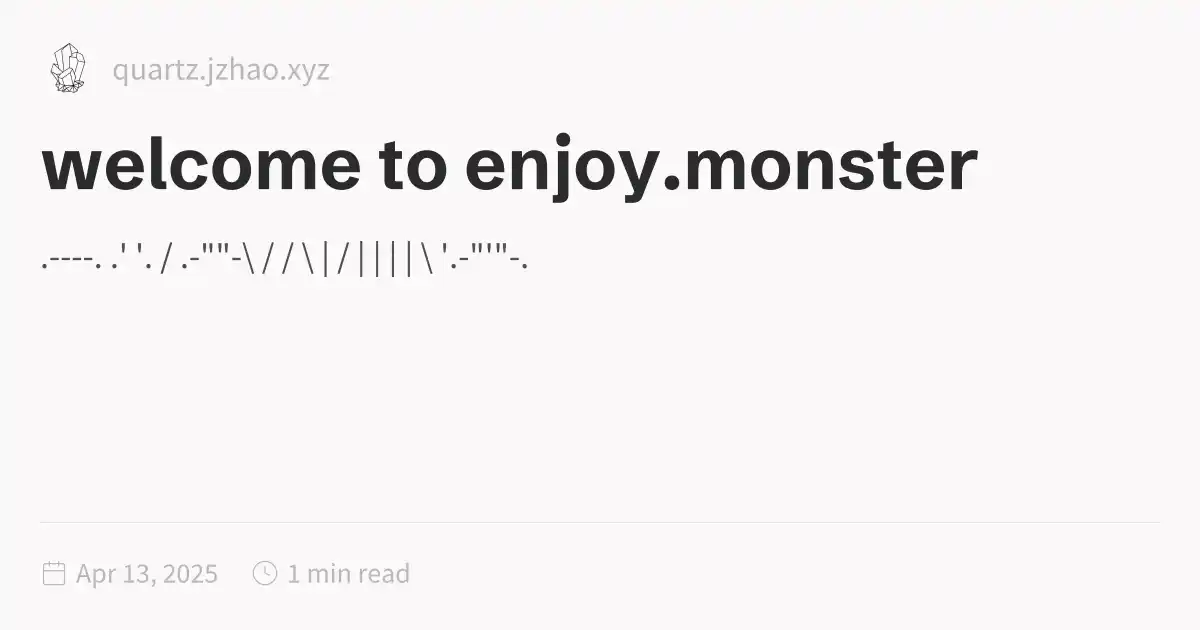
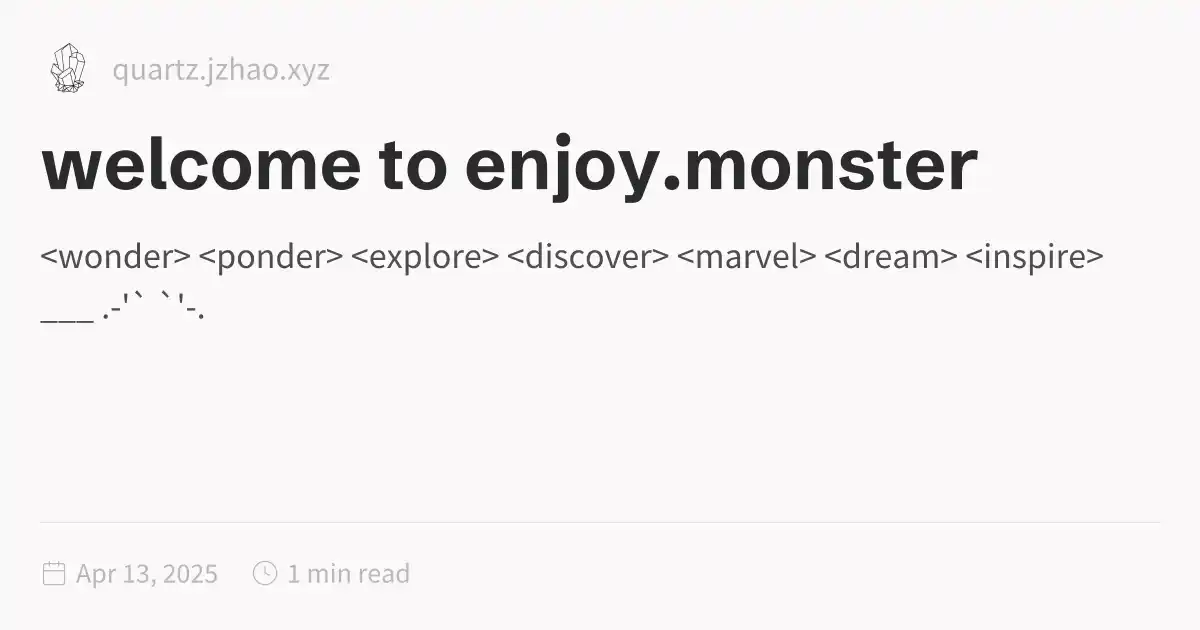
Deploying to gh-pages from @ doomdagadiggiedahdah/blog@cd88c906828391016854ffb2836e472048bb1b64 🚀

Changed region(s): [[0.0308, 0.3921, 0.925, 0.4524]]

diff --git a/blog/master-as-the-needle.html b/blog/master-as-the-needle.html
@@ -1,5 +1,5 @@
 <!DOCTYPE html>
-<html lang="en"><head><title>master-as-the-needle</title><meta charset="utf-8"/><link rel="preconnect" href="https://fonts.googleapis.com"/><link rel="preconnect" href="https://fonts.gstatic.com"/><link rel="stylesheet" href="https://fonts.googleapis.com/css2?family=Schibsted Grotesk:wght@400;700&amp;family=Source Sans Pro:ital,wght@0,400;0,600;1,400;1,600&amp;family=IBM Plex Mono:wght@400;600&amp;display=swap"/><link rel="preconnect" href="https://cdnjs.cloudflare.com" crossorigin="anonymous"/><meta name="viewport" content="width=device-width, initial-scale=1.0"/><meta name="og:site_name" content="Quartz 4"/><meta property="og:title" content="master-as-the-needle"/><meta property="og:type" content="website"/><meta name="twitter:card" content="summary_large_image"/><meta name="twitter:title" content="master-as-the-needle"/><meta name="twitter:description" content="Master as the needle “Tell me and I’ll forget, show me I’ll remember, involve me and I’ll understand.” I don’t feel accomplished when I vibe code, “he who does the work gets the learning” and if I outsource all / most of it then I’m not actually becoming a more capable person when I have Claude writ..."/><meta property="og:description" content="Master as the needle “Tell me and I’ll forget, show me I’ll remember, involve me and I’ll understand.” I don’t feel accomplished when I vibe code, “he who does the work gets the learning” and if I outsource all / most of it then I’m not actually becoming a more capable person when I have Claude writ..."/><meta property="og:image:alt" content="Master as the needle “Tell me and I’ll forget, show me I’ll remember, involve me and I’ll understand.” I don’t feel accomplished when I vibe code, “he who does the work gets the learning” and if I outsource all / most of it then I’m not actually becoming a more capable person when I have Claude writ..."/><meta property="twitter:domain" content="quartz.jzhao.xyz"/><meta property="og:url" content="https://quartz.jzhao.xyz/blog/master-as-the-needle"/><meta property="twitter:url" content="https://quartz.jzhao.xyz/blog/master-as-the-needle"/><link rel="icon" href="../static/icon.png"/><meta name="description" content="Master as the needle “Tell me and I’ll forget, show me I’ll remember, involve me and I’ll understand.” I don’t feel accomplished when I vibe code, “he who does the work gets the learning” and if I outsource all / most of it then I’m not actually becoming a more capable person when I have Claude writ..."/><meta name="generator" content="Quartz"/><link href="../index.css" rel="stylesheet" type="text/css" spa-preserve/><style>.expand-button {
+<html lang="en"><head><title>master as the needle</title><meta charset="utf-8"/><link rel="preconnect" href="https://fonts.googleapis.com"/><link rel="preconnect" href="https://fonts.gstatic.com"/><link rel="stylesheet" href="https://fonts.googleapis.com/css2?family=Schibsted Grotesk:wght@400;700&amp;family=Source Sans Pro:ital,wght@0,400;0,600;1,400;1,600&amp;family=IBM Plex Mono:wght@400;600&amp;display=swap"/><link rel="preconnect" href="https://cdnjs.cloudflare.com" crossorigin="anonymous"/><meta name="viewport" content="width=device-width, initial-scale=1.0"/><meta name="og:site_name" content="Quartz 4"/><meta property="og:title" content="master as the needle"/><meta property="og:type" content="website"/><meta name="twitter:card" content="summary_large_image"/><meta name="twitter:title" content="master as the needle"/><meta name="twitter:description" content="master as the needle “Tell me and I’ll forget, show me I’ll remember, involve me and I’ll understand.” I don’t feel accomplished when I vibe code, “he who does the work gets the learning” and if I outsource all / most of it then I’m not actually becoming a more capable person when I have Claude writ..."/><meta property="og:description" content="master as the needle “Tell me and I’ll forget, show me I’ll remember, involve me and I’ll understand.” I don’t feel accomplished when I vibe code, “he who does the work gets the learning” and if I outsource all / most of it then I’m not actually becoming a more capable person when I have Claude writ..."/><meta property="og:image:alt" content="master as the needle “Tell me and I’ll forget, show me I’ll remember, involve me and I’ll understand.” I don’t feel accomplished when I vibe code, “he who does the work gets the learning” and if I outsource all / most of it then I’m not actually becoming a more capable person when I have Claude writ..."/><meta property="twitter:domain" content="quartz.jzhao.xyz"/><meta property="og:url" content="https://quartz.jzhao.xyz/blog/master-as-the-needle"/><meta property="twitter:url" content="https://quartz.jzhao.xyz/blog/master-as-the-needle"/><link rel="icon" href="../static/icon.png"/><meta name="description" content="master as the needle “Tell me and I’ll forget, show me I’ll remember, involve me and I’ll understand.” I don’t feel accomplished when I vibe code, “he who does the work gets the learning” and if I outsource all / most of it then I’m not actually becoming a more capable person when I have Claude writ..."/><meta name="generator" content="Quartz"/><link href="../index.css" rel="stylesheet" type="text/css" spa-preserve/><style>.expand-button {
   position: absolute;
   display: flex;
   float: right;
@@ -116,7 +116,7 @@ pre:hover > .expand-button {
   padding: 0 12px;
   font-size: 14px;
 }
[2 lines of base64/hex data omitted]
 <ul>
 <li>
 <p>“Tell me and I’ll forget, show me I’ll remember, involve me and I’ll understand.”</p>
@@ -152,10 +152,10 @@ pre:hover > .expand-button {
 </li>
 </ul>
 <p>the solution relies on the strength of the student to support the residual structure</p>
-<h1 id="the-master-as-the-needle">The Master as the Needle<a role="anchor" aria-hidden="true" tabindex="-1" data-no-popover="true" href="#the-master-as-the-needle" class="internal"><svg width="18" height="18" viewBox="0 0 24 24" fill="none" stroke="currentColor" stroke-width="2" stroke-linecap="round" stroke-linejoin="round"><path d="M10 13a5 5 0 0 0 7.54.54l3-3a5 5 0 0 0-7.07-7.07l-1.72 1.71"></path><path d="M14 11a5 5 0 0 0-7.54-.54l-3 3a5 5 0 0 0 7.07 7.07l1.71-1.71"></path></svg></a></h1>
+<h1 id="the-master-as-the-needle">the master as the needle<a role="anchor" aria-hidden="true" tabindex="-1" data-no-popover="true" href="#the-master-as-the-needle" class="internal"><svg width="18" height="18" viewBox="0 0 24 24" fill="none" stroke="currentColor" stroke-width="2" stroke-linecap="round" stroke-linejoin="round"><path d="M10 13a5 5 0 0 0 7.54.54l3-3a5 5 0 0 0-7.07-7.07l-1.72 1.71"></path><path d="M14 11a5 5 0 0 0-7.54-.54l-3 3a5 5 0 0 0 7.07 7.07l1.71-1.71"></path></svg></a></h1>
 <p>“Tell me and I’ll forget, show me I’ll remember, involve me and I’ll understand.”</p>
 <p>There’s a critical line between technological capability and genuine understanding, can you truly comprehend something without wrestling with its complexity? The phrase ‘those who do the work receive the learning’ is more than a platitude; it’s a commitment to technologically influenced thinking, where AI becomes a tool for insight, not a replacement for understanding.</p>
-<h2 id="the-core-learning-strategy">The Core Learning Strategy<a role="anchor" aria-hidden="true" tabindex="-1" data-no-popover="true" href="#the-core-learning-strategy" class="internal"><svg width="18" height="18" viewBox="0 0 24 24" fill="none" stroke="currentColor" stroke-width="2" stroke-linecap="round" stroke-linejoin="round"><path d="M10 13a5 5 0 0 0 7.54.54l3-3a5 5 0 0 0-7.07-7.07l-1.72 1.71"></path><path d="M14 11a5 5 0 0 0-7.54-.54l-3 3a5 5 0 0 0 7.07 7.07l1.71-1.71"></path></svg></a></h2>
+<h2 id="the-core-learning-strategy">the core learning strategy<a role="anchor" aria-hidden="true" tabindex="-1" data-no-popover="true" href="#the-core-learning-strategy" class="internal"><svg width="18" height="18" viewBox="0 0 24 24" fill="none" stroke="currentColor" stroke-width="2" stroke-linecap="round" stroke-linejoin="round"><path d="M10 13a5 5 0 0 0 7.54.54l3-3a5 5 0 0 0-7.07-7.07l-1.72 1.71"></path><path d="M14 11a5 5 0 0 0-7.54-.54l-3 3a5 5 0 0 0 7.07 7.07l1.71-1.71"></path></svg></a></h2>
 <p>My approach is simple, and deliberate: use LLMs to generate working code for projects, and then dive deep to understand why and how that code works under the hood.</p>
 <p>In the “Book of Five Rings”, Miyamoto Musashi mentions the phrase “The master as the needle, the student as the thread.” The consensus I’ve found on what this means goes:</p>
 <ul>
@@ -164,7 +164,7 @@ pre:hover > .expand-button {
 <li>Ultimately, the master becomes unnecessary, but the student remains, holding the structure together</li>
 </ul>
 <p>In this way, I aim to have LLMs be my needle and have myself become the thread, learning to support the structures I’m working with.</p>
-<h2 id="what-to-expect-in-this-series">What to Expect in This Series<a role="anchor" aria-hidden="true" tabindex="-1" data-no-popover="true" href="#what-to-expect-in-this-series" class="internal"><svg width="18" height="18" viewBox="0 0 24 24" fill="none" stroke="currentColor" stroke-width="2" stroke-linecap="round" stroke-linejoin="round"><path d="M10 13a5 5 0 0 0 7.54.54l3-3a5 5 0 0 0-7.07-7.07l-1.72 1.71"></path><path d="M14 11a5 5 0 0 0-7.54-.54l-3 3a5 5 0 0 0 7.07 7.07l1.71-1.71"></path></svg></a></h2>
+<h2 id="what-to-expect-in-this-series">what to expect in this series<a role="anchor" aria-hidden="true" tabindex="-1" data-no-popover="true" href="#what-to-expect-in-this-series" class="internal"><svg width="18" height="18" viewBox="0 0 24 24" fill="none" stroke="currentColor" stroke-width="2" stroke-linecap="round" stroke-linejoin="round"><path d="M10 13a5 5 0 0 0 7.54.54l3-3a5 5 0 0 0-7.07-7.07l-1.72 1.71"></path><path d="M14 11a5 5 0 0 0-7.54-.54l-3 3a5 5 0 0 0 7.07 7.07l1.71-1.71"></path></svg></a></h2>
 <p>This blog series is an experiment in active, intentional learning. Each post will be a deep dive into a specific project:</p>
 <ul>
 <li>How the project was conceived</li>
@@ -174,8 +174,7 @@ pre:hover > .expand-button {
 <li>Practical insights for other learners</li>
 </ul>
 <p>This series is a live experiment in understanding—deliberately messy, intentionally iterative, and perpetually evolving. More than a technical exploration, it’s an invitation to develop a learning mindset that sees every technological encounter as a chance for deep insight. Not to continually be seeking perfection, but instead persistent curiosity.</p>
-<h2 id="the-experiments">The Experiments<a role="anchor" aria-hidden="true" tabindex="-1" data-no-popover="true" href="#the-experiments" class="internal"><svg width="18" height="18" viewBox="0 0 24 24" fill="none" stroke="currentColor" stroke-width="2" stroke-linecap="round" stroke-linejoin="round"><path d="M10 13a5 5 0 0 0 7.54.54l3-3a5 5 0 0 0-7.07-7.07l-1.72 1.71"></path><path d="M14 11a5 5 0 0 0-7.54-.54l-3 3a5 5 0 0 0 7.07 7.07l1.71-1.71"></path></svg></a></h2>
-<p>[Links to individual project explorations will go here]</p></article><hr/><div class="page-footer"></div></div><div class="right sidebar"><div class="graph"><h3>Graph View</h3><div class="graph-outer"><div class="graph-container" data-cfg="{&quot;drag&quot;:true,&quot;zoom&quot;:true,&quot;depth&quot;:1,&quot;scale&quot;:1.1,&quot;repelForce&quot;:0.5,&quot;centerForce&quot;:0.3,&quot;linkDistance&quot;:30,&quot;fontSize&quot;:0.6,&quot;opacityScale&quot;:1,&quot;showTags&quot;:true,&quot;removeTags&quot;:[],&quot;focusOnHover&quot;:false,&quot;enableRadial&quot;:false}"></div><button class="global-graph-icon" aria-label="Global Graph"><svg version="1.1" xmlns="http://www.w3.org/2000/svg" xmlns:xlink="http://www.w3.org/1999/xlink" x="0px" y="0px" viewBox="0 0 55 55" fill="currentColor" xml:space="preserve"><path d="M49,0c-3.309,0-6,2.691-6,6c0,1.035,0.263,2.009,0.726,2.86l-9.829,9.829C32.542,17.634,30.846,17,29,17
+<h2 id="the-experiments">the experiments<a role="anchor" aria-hidden="true" tabindex="-1" data-no-popover="true" href="#the-experiments" class="internal"><svg width="18" height="18" viewBox="0 0 24 24" fill="none" stroke="currentColor" stroke-width="2" stroke-linecap="round" stroke-linejoin="round"><path d="M10 13a5 5 0 0 0 7.54.54l3-3a5 5 0 0 0-7.07-7.07l-1.72 1.71"></path><path d="M14 11a5 5 0 0 0-7.54-.54l-3 3a5 5 0 0 0 7.07 7.07l1.71-1.71"></path></svg></a></h2></article><hr/><div class="page-footer"></div></div><div class="right sidebar"><div class="graph"><h3>Graph View</h3><div class="graph-outer"><div class="graph-container" data-cfg="{&quot;drag&quot;:true,&quot;zoom&quot;:true,&quot;depth&quot;:1,&quot;scale&quot;:1.1,&quot;repelForce&quot;:0.5,&quot;centerForce&quot;:0.3,&quot;linkDistance&quot;:30,&quot;fontSize&quot;:0.6,&quot;opacityScale&quot;:1,&quot;showTags&quot;:true,&quot;removeTags&quot;:[],&quot;focusOnHover&quot;:false,&quot;enableRadial&quot;:false}"></div><button class="global-graph-icon" aria-label="Global Graph"><svg version="1.1" xmlns="http://www.w3.org/2000/svg" xmlns:xlink="http://www.w3.org/1999/xlink" x="0px" y="0px" viewBox="0 0 55 55" fill="currentColor" xml:space="preserve"><path d="M49,0c-3.309,0-6,2.691-6,6c0,1.035,0.263,2.009,0.726,2.86l-9.829,9.829C32.542,17.634,30.846,17,29,17
                 s-3.542,0.634-4.898,1.688l-7.669-7.669C16.785,10.424,17,9.74,17,9c0-2.206-1.794-4-4-4S9,6.794,9,9s1.794,4,4,4
                 c0.74,0,1.424-0.215,2.019-0.567l7.669,7.669C21.634,21.458,21,23.154,21,25s0.634,3.542,1.688,4.897L10.024,42.562
                 C8.958,41.595,7.549,41,6,41c-3.309,0-6,2.691-6,6s2.691,6,6,6s6-2.691,6-6c0-1.035-0.263-2.009-0.726-2.86l12.829-12.829
@@ -185,6 +184,6 @@ pre:hover > .expand-button {
                 C46.042,11.405,47.451,12,49,12c3.309,0,6-2.691,6-6S52.309,0,49,0z M11,9c0-1.103,0.897-2,2-2s2,0.897,2,2s-0.897,2-2,2
                 S11,10.103,11,9z M6,51c-2.206,0-4-1.794-4-4s1.794-4,4-4s4,1.794,4,4S8.206,51,6,51z M33,49c0,2.206-1.794,4-4,4s-4-1.794-4-4
                 s1.794-4,4-4S33,46.794,33,49z M29,31c-3.309,0-6-2.691-6-6s2.691-6,6-6s6,2.691,6,6S32.309,31,29,31z M47,41c0,1.103-0.897,2-2,2
-                s-2-0.897-2-2s0.897-2,2-2S47,39.897,47,41z M49,10c-2.206,0-4-1.794-4-4s1.794-4,4-4s4,1.794,4,4S51.206,10,49,10z"></path></svg></button></div><div class="global-graph-outer"><div class="global-graph-container" data-cfg="{&quot;drag&quot;:true,&quot;zoom&quot;:true,&quot;depth&quot;:-1,&quot;scale&quot;:0.9,&quot;repelForce&quot;:0.5,&quot;centerForce&quot;:0.2,&quot;linkDistance&quot;:30,&quot;fontSize&quot;:0.6,&quot;opacityScale&quot;:1,&quot;showTags&quot;:true,&quot;removeTags&quot;:[],&quot;focusOnHover&quot;:true,&quot;enableRadial&quot;:true}"></div></div></div><div class="toc desktop-only"><button type="button" class="toc-header" aria-controls="toc-content" aria-expanded="true"><h3>Table of Contents</h3><svg xmlns="http://www.w3.org/2000/svg" width="24" height="24" viewBox="0 0 24 24" fill="none" stroke="currentColor" stroke-width="2" stroke-linecap="round" stroke-linejoin="round" class="fold"><polyline points="6 9 12 15 18 9"></polyline></svg></button><ul class="toc-content overflow" id="list-1"><li class="depth-0"><a href="#master-as-the-needle" data-for="master-as-the-needle">Master as the needle</a></li><li class="depth-0"><a href="#the-master-as-the-needle" data-for="the-master-as-the-needle">The Master as the Needle</a></li><li class="depth-1"><a href="#the-core-learning-strategy" data-for="the-core-learning-strategy">The Core Learning Strategy</a></li><li class="depth-1"><a href="#what-to-expect-in-this-series" data-for="what-to-expect-in-this-series">What to Expect in This Series</a></li><li class="depth-1"><a href="#the-experiments" data-for="the-experiments">The Experiments</a></li><li class="overflow-end"></li></ul></div></div><footer class><p>Created with <a href="https://quartz.jzhao.xyz/">Quartz v4.5.0</a> © 2025</p><ul><li><a href="https://github.com/jackyzha0/quartz">GitHub</a></li><li><a href="https://discord.gg/cRFFHYye7t">Discord Community</a></li></ul></footer></div></div></body><script type="application/javascript">function o(){let t=this.parentElement;t.classList.toggle("is-collapsed");let e=t.classList.contains("is-collapsed")?this.scrollHeight:t.scrollHeight;t.style.maxHeight=e+"px";let c=t,l=t.parentElement;for(;l;){if(!l.classList.contains("callout"))return;let i=l.classList.contains("is-collapsed")?l.scrollHeight:l.scrollHeight+c.scrollHeight;l.style.maxHeight=i+"px",c=l,l=l.parentElement}}function n(){let t=document.getElementsByClassName("callout is-collapsible");for(let s of t){let e=s.firstElementChild;if(!e)continue;e.addEventListener("click",o),window.addCleanup(()=>e.removeEventListener("click",o));let l=s.classList.contains("is-collapsed")?e.scrollHeight:s.scrollHeight;s.style.maxHeight=l+"px"}}document.addEventListener("nav",n);
+                s-2-0.897-2-2s0.897-2,2-2S47,39.897,47,41z M49,10c-2.206,0-4-1.794-4-4s1.794-4,4-4s4,1.794,4,4S51.206,10,49,10z"></path></svg></button></div><div class="global-graph-outer"><div class="global-graph-container" data-cfg="{&quot;drag&quot;:true,&quot;zoom&quot;:true,&quot;depth&quot;:-1,&quot;scale&quot;:0.9,&quot;repelForce&quot;:0.5,&quot;centerForce&quot;:0.2,&quot;linkDistance&quot;:30,&quot;fontSize&quot;:0.6,&quot;opacityScale&quot;:1,&quot;showTags&quot;:true,&quot;removeTags&quot;:[],&quot;focusOnHover&quot;:true,&quot;enableRadial&quot;:true}"></div></div></div><div class="toc desktop-only"><button type="button" class="toc-header" aria-controls="toc-content" aria-expanded="true"><h3>Table of Contents</h3><svg xmlns="http://www.w3.org/2000/svg" width="24" height="24" viewBox="0 0 24 24" fill="none" stroke="currentColor" stroke-width="2" stroke-linecap="round" stroke-linejoin="round" class="fold"><polyline points="6 9 12 15 18 9"></polyline></svg></button><ul class="toc-content overflow" id="list-1"><li class="depth-0"><a href="#master-as-the-needle" data-for="master-as-the-needle">master as the needle</a></li><li class="depth-0"><a href="#the-master-as-the-needle" data-for="the-master-as-the-needle">the master as the needle</a></li><li class="depth-1"><a href="#the-core-learning-strategy" data-for="the-core-learning-strategy">the core learning strategy</a></li><li class="depth-1"><a href="#what-to-expect-in-this-series" data-for="what-to-expect-in-this-series">what to expect in this series</a></li><li class="depth-1"><a href="#the-experiments" data-for="the-experiments">the experiments</a></li><li class="overflow-end"></li></ul></div></div><footer class><p>Created with <a href="https://quartz.jzhao.xyz/">Quartz v4.5.0</a> © 2025</p><ul><li><a href="https://github.com/jackyzha0/quartz">GitHub</a></li><li><a href="https://discord.gg/cRFFHYye7t">Discord Community</a></li></ul></footer></div></div></body><script type="application/javascript">function o(){let t=this.parentElement;t.classList.toggle("is-collapsed");let e=t.classList.contains("is-collapsed")?this.scrollHeight:t.scrollHeight;t.style.maxHeight=e+"px";let c=t,l=t.parentElement;for(;l;){if(!l.classList.contains("callout"))return;let i=l.classList.contains("is-collapsed")?l.scrollHeight:l.scrollHeight+c.scrollHeight;l.style.maxHeight=i+"px",c=l,l=l.parentElement}}function n(){let t=document.getElementsByClassName("callout is-collapsible");for(let s of t){let e=s.firstElementChild;if(!e)continue;e.addEventListener("click",o),window.addCleanup(()=>e.removeEventListener("click",o));let l=s.classList.contains("is-collapsed")?e.scrollHeight:s.scrollHeight;s.style.maxHeight=l+"px"}}document.addEventListener("nav",n);
 </script><script type="module">function f(i,e){if(!i)return;function r(o){o.target===this&&(o.preventDefault(),o.stopPropagation(),e())}function t(o){o.key.startsWith("Esc")&&(o.preventDefault(),e())}i?.addEventListener("click",r),window.addCleanup(()=>i?.removeEventListener("click",r)),document.addEventListener("keydown",t),window.addCleanup(()=>document.removeEventListener("keydown",t))}function y(i){for(;i.firstChild;)i.removeChild(i.firstChild)}var h=class{constructor(e,r){this.container=e;this.content=r;this.setupEventListeners(),this.setupNavigationControls(),this.resetTransform()}isDragging=!1;startPan={x:0,y:0};currentPan={x:0,y:0};scale=1;MIN_SCALE=.5;MAX_SCALE=3;cleanups=[];setupEventListeners(){let e=this.onMouseDown.bind(this),r=this.onMouseMove.bind(this),t=this.onMouseUp.bind(this),o=this.resetTransform.bind(this);this.container.addEventListener("mousedown",e),document.addEventListener("mousemove",r),document.addEventListener("mouseup",t),window.addEventListener("resize",o),this.cleanups.push(()=>this.container.removeEventListener("mousedown",e),()=>document.removeEventListener("mousemove",r),()=>document.removeEventListener("mouseup",t),()=>window.removeEventListener("resize",o))}cleanup(){for(let e of this.cleanups)e()}setupNavigationControls(){let e=document.createElement("div");e.className="mermaid-controls";let r=this.createButton("+",()=>this.zoom(.1)),t=this.createButton("-",()=>this.zoom(-.1)),o=this.createButton("Reset",()=>this.resetTransform());e.appendChild(t),e.appendChild(o),e.appendChild(r),this.container.appendChild(e)}createButton(e,r){let t=document.createElement("button");return t.textContent=e,t.className="mermaid-control-button",t.addEventListener("click",r),window.addCleanup(()=>t.removeEventListener("click",r)),t}onMouseDown(e){e.button===0&&(this.isDragging=!0,this.startPan={x:e.clientX-this.currentPan.x,y:e.clientY-this.currentPan.y},this.container.style.cursor="grabbing")}onMouseMove(e){this.isDragging&&(e.preventDefault(),this.currentPan={x:e.clientX-this.startPan.x,y:e.clientY-this.startPan.y},this.updateTransform())}onMouseUp(){this.isDragging=!1,this.container.style.cursor="grab"}zoom(e){let r=Math.min(Math.max(this.scale+e,this.MIN_SCALE),this.MAX_SCALE),t=this.content.getBoundingClientRect(),o=t.width/2,n=t.height/2,c=r-this.scale;this.currentPan.x-=o*c,this.currentPan.y-=n*c,this.scale=r,this.updateTransform()}updateTransform(){this.content.style.transform=`translate(${this.currentPan.x}px, ${this.currentPan.y}px) scale(${this.scale})`}resetTransform(){this.scale=1;let e=this.content.querySelector("svg");this.currentPan={x:e.getBoundingClientRect().width/2,y:e.getBoundingClientRect().height/2},this.updateTransform()}},C=["--secondary","--tertiary","--gray","--light","--lightgray","--highlight","--dark","--darkgray","--codeFont"],E;document.addEventListener("nav",async()=>{let e=document.querySelector(".center").querySelectorAll("code.mermaid");if(e.length===0)return;E||=await import("https://cdnjs.cloudflare.com/ajax/libs/mermaid/11.4.0/mermaid.esm.min.mjs");let r=E.default,t=new WeakMap;for(let n of e)t.set(n,n.innerText);async function o(){for(let s of e){s.removeAttribute("data-processed");let a=t.get(s);a&&(s.innerHTML=a)}let n=C.reduce((s,a)=>(s[a]=window.getComputedStyle(document.documentElement).getPropertyValue(a),s),{}),c=document.documentElement.getAttribute("saved-theme")==="dark";r.initialize({startOnLoad:!1,securityLevel:"loose",theme:c?"dark":"base",themeVariables:{fontFamily:n["--codeFont"],primaryColor:n["--light"],primaryTextColor:n["--darkgray"],primaryBorderColor:n["--tertiary"],lineColor:n["--darkgray"],secondaryColor:n["--secondary"],tertiaryColor:n["--tertiary"],clusterBkg:n["--light"],edgeLabelBackground:n["--highlight"]}}),await r.run({nodes:e})}await o(),document.addEventListener("themechange",o),window.addCleanup(()=>document.removeEventListener("themechange",o));for(let n=0;n<e.length;n++){let v=function(){let g=l.querySelector("#mermaid-space"),m=l.querySelector(".mermaid-content");if(!m)return;y(m);let w=c.querySelector("svg").cloneNode(!0);m.appendChild(w),l.classList.add("active"),g.style.cursor="grab",u=new h(g,m)},M=function(){l.classList.remove("active"),u?.cleanup(),u=null},c=e[n],s=c.parentElement,a=s.querySelector(".clipboard-button"),d=s.querySelector(".expand-button"),p=window.getComputedStyle(a),L=a.offsetWidth+parseFloat(p.marginLeft||"0")+parseFloat(p.marginRight||"0");d.style.right=`calc(${L}px + 0.3rem)`,s.prepend(d);let l=s.querySelector("#mermaid-container");if(!l)return;let u=null;d.addEventListener("click",v),f(l,M),window.addCleanup(()=>{u?.cleanup(),d.removeEventListener("click",v)})}});
 </script><script src="https://cdn.jsdelivr.net/npm/katex@0.16.11/dist/contrib/copy-tex.min.js" type="application/javascript"></script><script src="../postscript.js" type="module"></script></html>

diff --git a/blog/index.html b/blog/index.html
@@ -116,6 +116,6 @@ pre:hover > .expand-button {
   padding: 0 12px;
   font-size: 14px;
 }
[2 lines of base64/hex data omitted]
 </script><script type="module">function f(i,e){if(!i)return;function r(o){o.target===this&&(o.preventDefault(),o.stopPropagation(),e())}function t(o){o.key.startsWith("Esc")&&(o.preventDefault(),e())}i?.addEventListener("click",r),window.addCleanup(()=>i?.removeEventListener("click",r)),document.addEventListener("keydown",t),window.addCleanup(()=>document.removeEventListener("keydown",t))}function y(i){for(;i.firstChild;)i.removeChild(i.firstChild)}var h=class{constructor(e,r){this.container=e;this.content=r;this.setupEventListeners(),this.setupNavigationControls(),this.resetTransform()}isDragging=!1;startPan={x:0,y:0};currentPan={x:0,y:0};scale=1;MIN_SCALE=.5;MAX_SCALE=3;cleanups=[];setupEventListeners(){let e=this.onMouseDown.bind(this),r=this.onMouseMove.bind(this),t=this.onMouseUp.bind(this),o=this.resetTransform.bind(this);this.container.addEventListener("mousedown",e),document.addEventListener("mousemove",r),document.addEventListener("mouseup",t),window.addEventListener("resize",o),this.cleanups.push(()=>this.container.removeEventListener("mousedown",e),()=>document.removeEventListener("mousemove",r),()=>document.removeEventListener("mouseup",t),()=>window.removeEventListener("resize",o))}cleanup(){for(let e of this.cleanups)e()}setupNavigationControls(){let e=document.createElement("div");e.className="mermaid-controls";let r=this.createButton("+",()=>this.zoom(.1)),t=this.createButton("-",()=>this.zoom(-.1)),o=this.createButton("Reset",()=>this.resetTransform());e.appendChild(t),e.appendChild(o),e.appendChild(r),this.container.appendChild(e)}createButton(e,r){let t=document.createElement("button");return t.textContent=e,t.className="mermaid-control-button",t.addEventListener("click",r),window.addCleanup(()=>t.removeEventListener("click",r)),t}onMouseDown(e){e.button===0&&(this.isDragging=!0,this.startPan={x:e.clientX-this.currentPan.x,y:e.clientY-this.currentPan.y},this.container.style.cursor="grabbing")}onMouseMove(e){this.isDragging&&(e.preventDefault(),this.currentPan={x:e.clientX-this.startPan.x,y:e.clientY-this.startPan.y},this.updateTransform())}onMouseUp(){this.isDragging=!1,this.container.style.cursor="grab"}zoom(e){let r=Math.min(Math.max(this.scale+e,this.MIN_SCALE),this.MAX_SCALE),t=this.content.getBoundingClientRect(),o=t.width/2,n=t.height/2,c=r-this.scale;this.currentPan.x-=o*c,this.currentPan.y-=n*c,this.scale=r,this.updateTransform()}updateTransform(){this.content.style.transform=`translate(${this.currentPan.x}px, ${this.currentPan.y}px) scale(${this.scale})`}resetTransform(){this.scale=1;let e=this.content.querySelector("svg");this.currentPan={x:e.getBoundingClientRect().width/2,y:e.getBoundingClientRect().height/2},this.updateTransform()}},C=["--secondary","--tertiary","--gray","--light","--lightgray","--highlight","--dark","--darkgray","--codeFont"],E;document.addEventListener("nav",async()=>{let e=document.querySelector(".center").querySelectorAll("code.mermaid");if(e.length===0)return;E||=await import("https://cdnjs.cloudflare.com/ajax/libs/mermaid/11.4.0/mermaid.esm.min.mjs");let r=E.default,t=new WeakMap;for(let n of e)t.set(n,n.innerText);async function o(){for(let s of e){s.removeAttribute("data-processed");let a=t.get(s);a&&(s.innerHTML=a)}let n=C.reduce((s,a)=>(s[a]=window.getComputedStyle(document.documentElement).getPropertyValue(a),s),{}),c=document.documentElement.getAttribute("saved-theme")==="dark";r.initialize({startOnLoad:!1,securityLevel:"loose",theme:c?"dark":"base",themeVariables:{fontFamily:n["--codeFont"],primaryColor:n["--light"],primaryTextColor:n["--darkgray"],primaryBorderColor:n["--tertiary"],lineColor:n["--darkgray"],secondaryColor:n["--secondary"],tertiaryColor:n["--tertiary"],clusterBkg:n["--light"],edgeLabelBackground:n["--highlight"]}}),await r.run({nodes:e})}await o(),document.addEventListener("themechange",o),window.addCleanup(()=>document.removeEventListener("themechange",o));for(let n=0;n<e.length;n++){let v=function(){let g=l.querySelector("#mermaid-space"),m=l.querySelector(".mermaid-content");if(!m)return;y(m);let w=c.querySelector("svg").cloneNode(!0);m.appendChild(w),l.classList.add("active"),g.style.cursor="grab",u=new h(g,m)},M=function(){l.classList.remove("active"),u?.cleanup(),u=null},c=e[n],s=c.parentElement,a=s.querySelector(".clipboard-button"),d=s.querySelector(".expand-button"),p=window.getComputedStyle(a),L=a.offsetWidth+parseFloat(p.marginLeft||"0")+parseFloat(p.marginRight||"0");d.style.right=`calc(${L}px + 0.3rem)`,s.prepend(d);let l=s.querySelector("#mermaid-container");if(!l)return;let u=null;d.addEventListener("click",v),f(l,M),window.addCleanup(()=>{u?.cleanup(),d.removeEventListener("click",v)})}});
 </script><script src="https://cdn.jsdelivr.net/npm/katex@0.16.11/dist/contrib/copy-tex.min.js" type="application/javascript"></script><script src="../postscript.js" type="module"></script></html>

diff --git a/index.html b/index.html
@@ -1,5 +1,5 @@
 <!DOCTYPE html>
-<html lang="en"><head><title>welcome to enjoy.monster</title><meta charset="utf-8"/><link rel="preconnect" href="https://fonts.googleapis.com"/><link rel="preconnect" href="https://fonts.gstatic.com"/><link rel="stylesheet" href="https://fonts.googleapis.com/css2?family=Schibsted Grotesk:wght@400;700&amp;family=Source Sans Pro:ital,wght@0,400;0,600;1,400;1,600&amp;family=IBM Plex Mono:wght@400;600&amp;display=swap"/><link rel="preconnect" href="https://cdnjs.cloudflare.com" crossorigin="anonymous"/><meta name="viewport" content="width=device-width, initial-scale=1.0"/><meta name="og:site_name" content="Quartz 4"/><meta property="og:title" content="welcome to enjoy.monster"/><meta property="og:type" content="website"/><meta name="twitter:card" content="summary_large_image"/><meta name="twitter:title" content="welcome to enjoy.monster"/><meta name="twitter:description" content=".----. .' '. / .-&quot;&quot;-\ / / \ | / | | | | \ '.-&quot;'&quot;-."/><meta property="og:description" content=".----. .' '. / .-&quot;&quot;-\ / / \ | / | | | | \ '.-&quot;'&quot;-."/><meta property="og:image:alt" content=".----. .' '. / .-&quot;&quot;-\ / / \ | / | | | | \ '.-&quot;'&quot;-."/><meta property="twitter:domain" content="quartz.jzhao.xyz"/><meta property="og:url" content="https://quartz.jzhao.xyz/index"/><meta property="twitter:url" content="https://quartz.jzhao.xyz/index"/><link rel="icon" href="./static/icon.png"/><meta name="description" content=".----. .' '. / .-&quot;&quot;-\ / / \ | / | | | | \ '.-&quot;'&quot;-."/><meta name="generator" content="Quartz"/><link href="./index.css" rel="stylesheet" type="text/css" spa-preserve/><style>.expand-button {
+<html lang="en"><head><title>welcome to enjoy.monster</title><meta charset="utf-8"/><link rel="preconnect" href="https://fonts.googleapis.com"/><link rel="preconnect" href="https://fonts.gstatic.com"/><link rel="stylesheet" href="https://fonts.googleapis.com/css2?family=Schibsted Grotesk:wght@400;700&amp;family=Source Sans Pro:ital,wght@0,400;0,600;1,400;1,600&amp;family=IBM Plex Mono:wght@400;600&amp;display=swap"/><link rel="preconnect" href="https://cdnjs.cloudflare.com" crossorigin="anonymous"/><meta name="viewport" content="width=device-width, initial-scale=1.0"/><meta name="og:site_name" content="Quartz 4"/><meta property="og:title" content="welcome to enjoy.monster"/><meta property="og:type" content="website"/><meta name="twitter:card" content="summary_large_image"/><meta name="twitter:title" content="welcome to enjoy.monster"/><meta name="twitter:description" content="&lt;wonder> &lt;ponder> &lt;explore> &lt;discover> &lt;marvel> &lt;dream> &lt;inspire> ___ .-'` `'-."/><meta property="og:description" content="&lt;wonder> &lt;ponder> &lt;explore> &lt;discover> &lt;marvel> &lt;dream> &lt;inspire> ___ .-'` `'-."/><meta property="og:image:alt" content="&lt;wonder> &lt;ponder> &lt;explore> &lt;discover> &lt;marvel> &lt;dream> &lt;inspire> ___ .-'` `'-."/><meta property="twitter:domain" content="quartz.jzhao.xyz"/><meta property="og:url" content="https://quartz.jzhao.xyz/index"/><meta property="twitter:url" content="https://quartz.jzhao.xyz/index"/><link rel="icon" href="./static/icon.png"/><meta name="description" content="&lt;wonder> &lt;ponder> &lt;explore> &lt;discover> &lt;marvel> &lt;dream> &lt;inspire> ___ .-'` `'-."/><meta name="generator" content="Quartz"/><link href="./index.css" rel="stylesheet" type="text/css" spa-preserve/><style>.expand-button {
   position: absolute;
   display: flex;
   float: right;
@@ -116,61 +116,47 @@ pre:hover > .expand-button {
   padding: 0 12px;
   font-size: 14px;
 }
[1 lines of base64/hex data omitted]
-                    .'      '.
-                   /    .-&quot;&quot;-\
-                  /    /      \
-                  |   /        |
-                  |  |         |
-                  \  '.-&quot;'&quot;-.  /
-                   \  |     | /
-                    '._____.'
[1 lines of base64/hex data omitted]
+  &lt;ponder>
+    &lt;explore>
+      &lt;discover>
+        &lt;marvel>
+          &lt;dream>
+            &lt;inspire>
 
-d i g i t a l    d r e a m i n g
+            ___
+        .-'`   `'-.
+       /   o   o   \
+      |  .-''''-.  |
+       \_/       \_/
+        |    __    |
+        \  .'__'.  /
+         '.\    /.'
+           ';;'
+             '
 
-in   the   spaces   between   thoughts
-                                      (where)
-             meaning
-                    crystallizes
-                                like
-                                     frost
+      In the vast expanse
+    Of the mind's imagination 
+  Lies a universe of potential
+    Waiting to be unlocked
+      Through curiosity
+        And wonder
+      Let your thoughts
+        Take flight
+      On wings of awe
+    Soaring through realms
+  Of endless possibility and
+Unimagined beauty to be found
+    In the depths of your
+        &lt;soul>
 
-                                           *
-
-each   pixel   holds   
-                     a   universe   of   
-                                        possibility
-
-        while   binary   stars   pulse
-                                      in   perfect
-                                                 rhythm
-
-                    01010
-                    11011
-                    00101
-
-and   somewhere   in   the   void
-                                a   cursor   blinks
-                                                  eternally
-
-                                           *
-
-    w  e    a  r  e    a  l  l
-                               j u s t
-                                     p  a  t  t  e  r  n  s
-                                                           searching
-                                                                    for
-                                                                        meaning
-
-                      .----.
-                    .'      '.
-                   /    .-&quot;&quot;-\
-                  /    /      \
-                  |   /        |
-                  |  |         |
-                  \  '.-&quot;'&quot;-.  /
-                   \  |     | /
-                    '._____.'
+            &lt;/inspire>
+          &lt;/dream>
+        &lt;/marvel>
+      &lt;/discover>
+    &lt;/explore>
+  &lt;/ponder>
+&lt;/wonder>
 </code></pre></article><hr/><div class="page-footer"></div></div><div class="right sidebar"><div class="graph"><h3>Graph View</h3><div class="graph-outer"><div class="graph-container" data-cfg="{&quot;drag&quot;:true,&quot;zoom&quot;:true,&quot;depth&quot;:1,&quot;scale&quot;:1.1,&quot;repelForce&quot;:0.5,&quot;centerForce&quot;:0.3,&quot;linkDistance&quot;:30,&quot;fontSize&quot;:0.6,&quot;opacityScale&quot;:1,&quot;showTags&quot;:true,&quot;removeTags&quot;:[],&quot;focusOnHover&quot;:false,&quot;enableRadial&quot;:false}"></div><button class="global-graph-icon" aria-label="Global Graph"><svg version="1.1" xmlns="http://www.w3.org/2000/svg" xmlns:xlink="http://www.w3.org/1999/xlink" x="0px" y="0px" viewBox="0 0 55 55" fill="currentColor" xml:space="preserve"><path d="M49,0c-3.309,0-6,2.691-6,6c0,1.035,0.263,2.009,0.726,2.86l-9.829,9.829C32.542,17.634,30.846,17,29,17
                 s-3.542,0.634-4.898,1.688l-7.669-7.669C16.785,10.424,17,9.74,17,9c0-2.206-1.794-4-4-4S9,6.794,9,9s1.794,4,4,4
                 c0.74,0,1.424-0.215,2.019-0.567l7.669,7.669C21.634,21.458,21,23.154,21,25s0.634,3.542,1.688,4.897L10.024,42.562

diff --git a/blog/quartz---working-notes.html b/blog/quartz---working-notes.html
@@ -116,7 +116,7 @@ pre:hover > .expand-button {
   padding: 0 12px;
   font-size: 14px;
 }
[2 lines of base64/hex data omitted]
 <ul>
 <li>revamp my dang blog</li>
 </ul>
